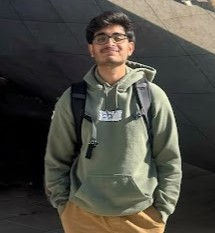
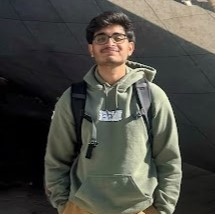
img edit

diff --git a/css/style.css b/css/style.css
@@ -251,8 +251,8 @@ section {
 
 .about-img {
     position:relative;
-    width: 20rem;
-    height:20rem;
+    width: 22rem;
+    height:22rem;
     border-radius:100%;
     display:flex;
     justify-content:center;
